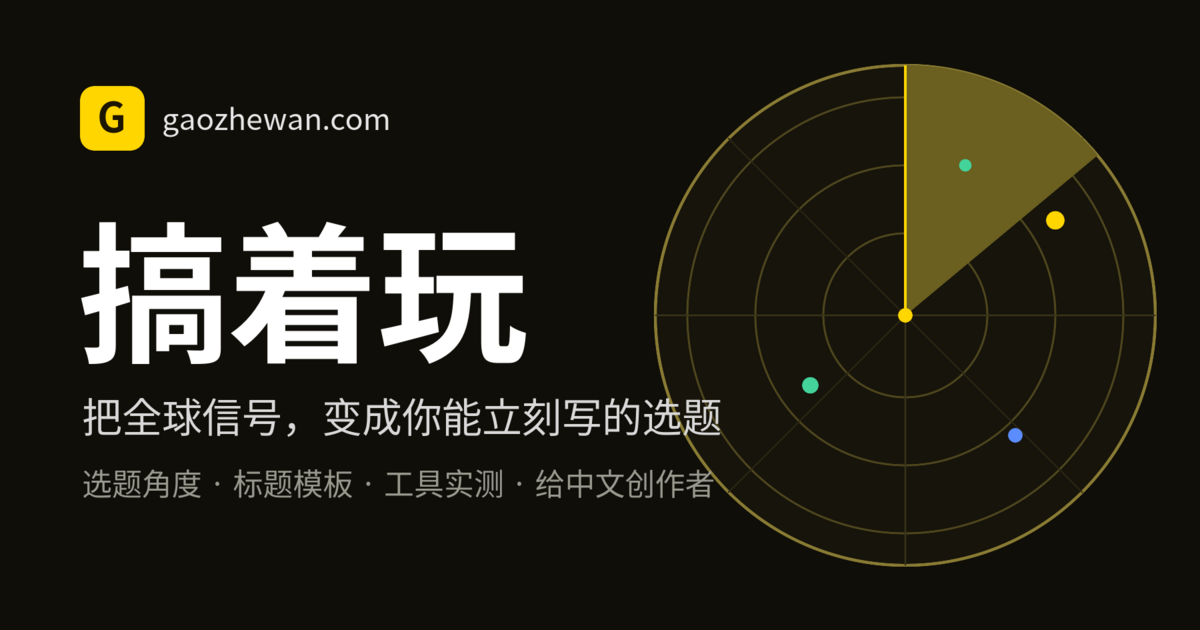
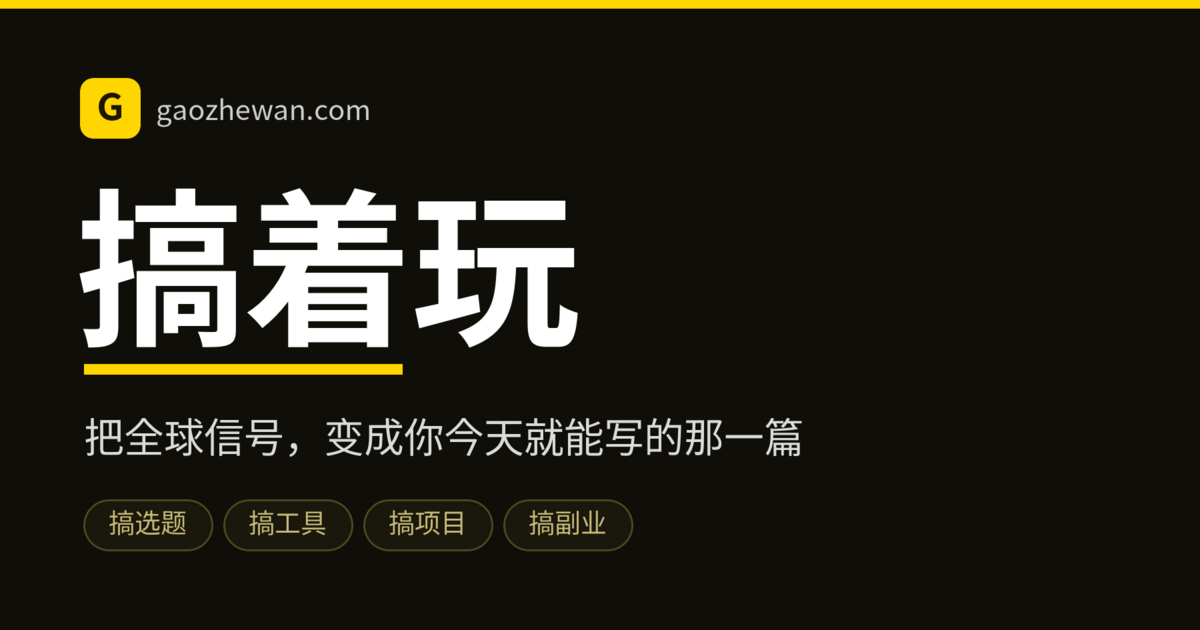
--

diff --git a/app/globals.css b/app/globals.css
@@ -392,48 +392,127 @@ main {
 
 .signal-list {
   display: grid;
-  gap: 12px;
+  gap: 10px;
+}
+
+.signal-live {
+  align-items: center;
+  color: var(--brand);
+  display: inline-flex;
+  font-weight: 800;
+  gap: 8px;
+  letter-spacing: 0.02em;
+}
+
+.signal-live i {
+  animation: signal-blink 2s ease-in-out infinite;
+  background: var(--brand);
+  border-radius: 999px;
+  box-shadow: 0 0 0 4px rgba(255, 214, 0, 0.18);
+  height: 8px;
+  width: 8px;
+}
+
+@keyframes signal-blink {
+  0%,
+  100% {
+    opacity: 1;
+  }
+  50% {
+    opacity: 0.35;
+  }
 }
 
 .signal-item {
+  align-items: flex-start;
   background: #ffffff;
-  border-radius: 8px;
+  border-radius: 10px;
   color: var(--ink);
-  padding: 14px;
-}
-
-.signal-item strong {
-  display: block;
-  line-height: 1.25;
-}
-
-.signal-item span {
-  color: var(--muted);
-  display: block;
-  font-size: 13px;
-  margin-top: 6px;
-}
-
-.signal-foot {
-  align-items: center;
   display: flex;
-  justify-content: space-between;
-  gap: 12px;
+  gap: 13px;
+  padding: 14px 16px;
+  text-decoration: none;
+  transition: transform 0.15s ease, box-shadow 0.15s ease;
 }
 
-.signal-meter {
-  background: #2e2e2e;
-  border-radius: 999px;
-  height: 10px;
-  overflow: hidden;
-  width: 62%;
+.signal-item:hover {
+  box-shadow: 0 10px 24px rgba(0, 0, 0, 0.28);
+  transform: translateY(-2px);
 }
 
-.signal-meter i {
+.signal-index {
   background: var(--brand);
+  border-radius: 6px;
+  color: var(--brand-ink);
+  flex: none;
+  font-size: 13px;
+  font-variant-numeric: tabular-nums;
+  font-weight: 800;
+  padding: 2px 7px;
+}
+
+.signal-body {
   display: block;
-  height: 100%;
-  width: 82%;
+  min-width: 0;
+}
+
+.signal-body strong {
+  display: block;
+  line-height: 1.3;
+}
+
+.signal-heat {
+  -webkit-box-orient: vertical;
+  -webkit-line-clamp: 2;
+  color: var(--muted);
+  display: -webkit-box;
+  font-size: 13px;
+  margin-top: 5px;
+  overflow: hidden;
+}
+
+.signal-tags {
+  display: flex;
+  flex-wrap: wrap;
+  gap: 6px;
+  margin-top: 8px;
+}
+
+.signal-tags em {
+  background: #f1efe2;
+  border-radius: 999px;
+  color: #5a5226;
+  font-size: 12px;
+  font-style: normal;
+  padding: 2px 9px;
+}
+
+.signal-cta {
+  align-items: center;
+  border-top: 1px solid rgba(255, 255, 255, 0.14);
+  color: #ffffff;
+  display: flex;
+  font-weight: 700;
+  gap: 8px;
+  justify-content: space-between;
+  padding-top: 16px;
+  text-decoration: none;
+}
+
+.signal-cta span {
+  color: var(--brand);
+  font-size: 20px;
+  transition: transform 0.15s ease;
+}
+
+.signal-cta:hover span {
+  transform: translateX(3px);
+}
+
+@media (prefers-reduced-motion: reduce) {
+  .signal-live i {
+    animation: none;
+  }
 }
 
 .article-grid,

diff --git a/app/page.tsx b/app/page.tsx
@@ -2,7 +2,6 @@ import Link from "next/link";
 import { ArticleCard } from "@/components/article-card";
 import { SubscribeForm } from "@/components/subscribe-form";
 import { TopicCardPreview } from "@/components/topic-card-preview";
-import { SignalRadar } from "@/components/signal-radar";
 import {
   getAverageScore,
   getSortedPosts,
@@ -10,7 +9,6 @@ import {
   getSortedTopicCards,
   tools
 } from "@/lib/content";
-import { site } from "@/lib/site";
 
 export default function HomePage() {
   const sortedPosts = getSortedPosts();
@@ -20,6 +18,7 @@ export default function HomePage() {
     .slice(0, 3);
   const featuredTools = tools.filter((tool) => tool.featured).slice(0, 3);
   const recentCards = getSortedTopicCards().slice(0, 3);
+  const signalFeed = getSortedTopicCards().slice(0, 4);
   const playLanes = [
     {
       title: "搞选题",
@@ -88,28 +87,35 @@ export default function HomePage() {
             </div>
           </div>
         </div>
-        <div className="radar-panel" aria-label="选题雷达预览">
+        <div className="radar-panel" aria-label="实时全球信号">
           <div className="radar-header">
-            <span>GAOZHEWAN RADAR</span>
-            <span>GLOBAL SIGNALS</span>
-          </div>
-          <div className="radar-visual-wrap">
-            <SignalRadar />
+            <span className="signal-live">
+              <i aria-hidden="true" />
+              实时全球信号
+            </span>
+            <span>每日更新</span>
           </div>
           <div className="signal-list">
-            {recentCards.map((card) => (
-              <div className="signal-item" key={card.id}>
-                <strong>{card.title}</strong>
-                <span>{card.heat}</span>
-              </div>
+            {signalFeed.map((card, index) => (
+              <Link className="signal-item" href={`/topic/${card.id}`} key={card.id}>
+                <span className="signal-index">
+                  {String(index + 1).padStart(2, "0")}
+                </span>
+                <span className="signal-body">
+                  <strong>{card.title}</strong>
+                  <span className="signal-heat">{card.heat}</span>
+                  <span className="signal-tags">
+                    <em>竞争度 {card.competition}</em>
+                    <em>{card.window}</em>
+                  </span>
+                </span>
+              </Link>
             ))}
           </div>
-          <div className="signal-foot">
-            <span>{site.slogan}</span>
-            <div className="signal-meter" aria-hidden="true">
-              <i />
-            </div>
-          </div>
+          <Link className="signal-cta" href="/topics">
+            去选题工作台挑今天写哪条
+            <span aria-hidden="true">→</span>
+          </Link>
         </div>
       </section>
 
@@ -201,7 +207,7 @@ export default function HomePage() {
         <div className="section-inner subscribe-band">
           <div>
             <p className="eyebrow">邮件订阅</p>
-            <h2>把全球新奇雷达发到你的邮箱</h2>
+            <h2>把全球新奇信号发到你的邮箱</h2>
             <p>
               每天一条最值得写的全球信号，直接发到你邮箱。免费，随时退订。
             </p>